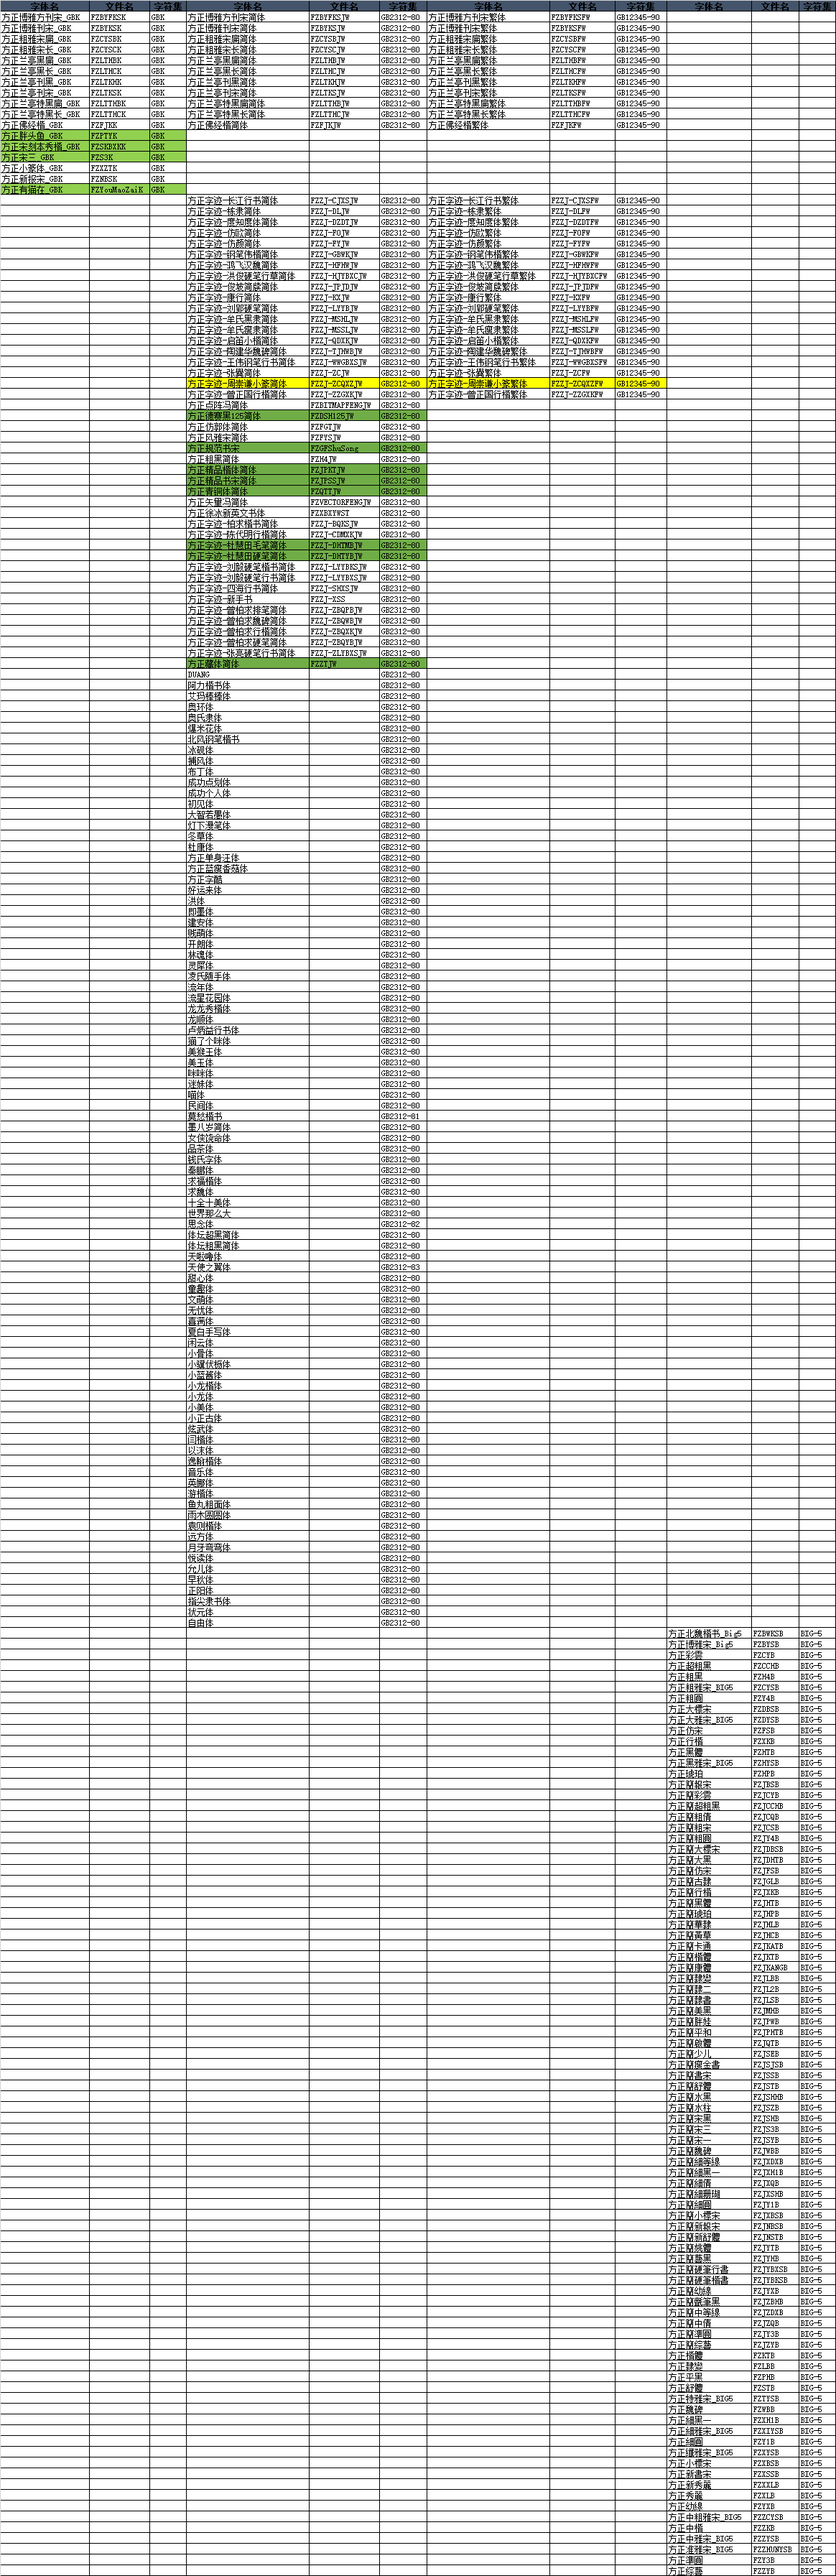
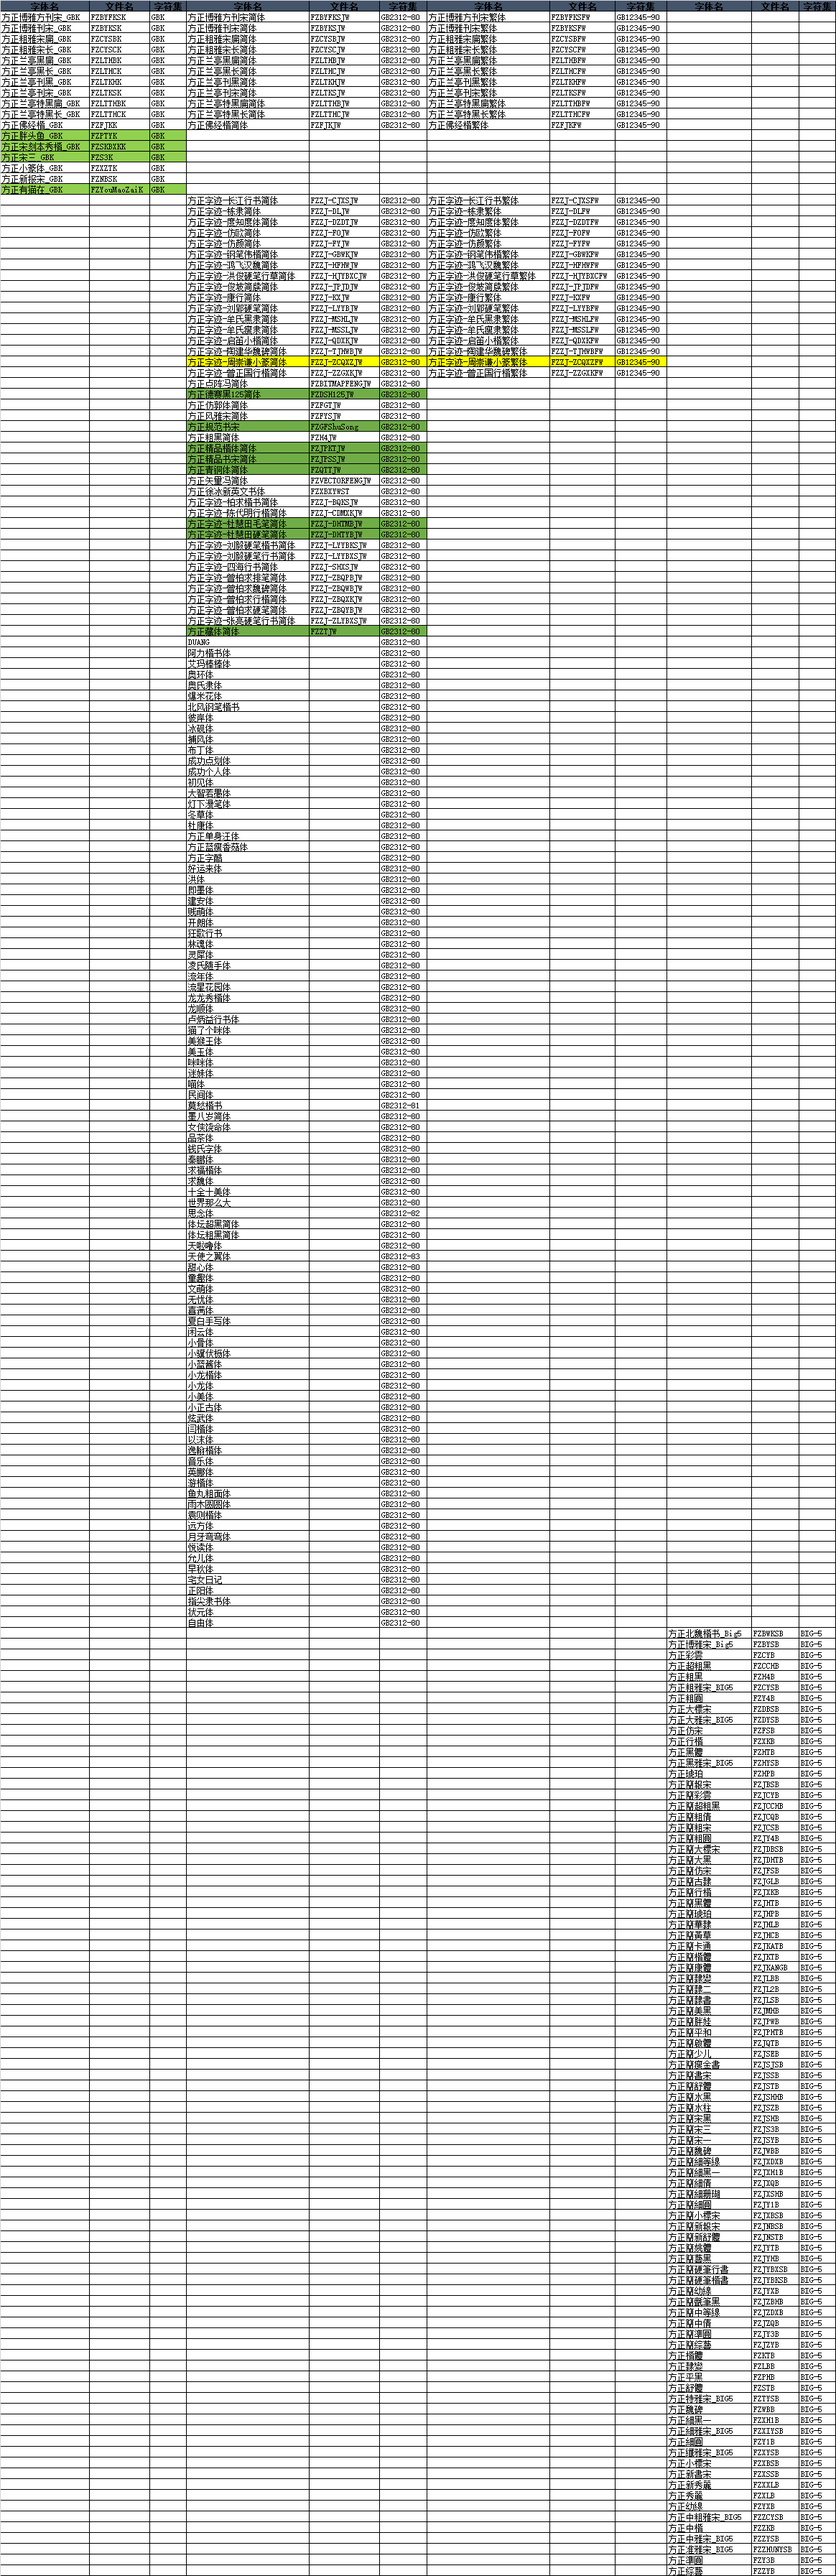
字体上架:方正字迹-新手书/方正字迹-王伟钢笔行书简体/方正字迹-王伟钢笔行书繁体/方正字迹-张爨简体/方正字迹-张爨繁体

Changed region(s): [[0.2165, 0.1249, 0.8041, 0.6247]]

diff --git a/README.md b/README.md
@@ -12,7 +12,7 @@
 
 方正字体样张:[http://shop.foundertype.com/index.php/Index/downSample.html](http://shop.foundertype.com/index.php/Index/downSample.html)
 
-目前官方商城在售字体540种：
+目前官方商城在售字体545种：
 
 | 字体名                      | 文件名             | 字符集     |
 |-----------------------------|--------------------|------------|
@@ -171,6 +171,7 @@
 | 方正字迹-吕建德魏碑繁体     | FZZJ-LJDWBFW       | GB12345-90 |
 | 方正字迹-佩安硬笔繁体       | FZZJ-PANYBFW       | GB12345-90 |
 | 方正字迹-童佬繁体           | FZZJ-TLFW          | GB12345-90 |
+| 方正字迹-王伟钢笔行书繁体   | FZZJ-WWGBXSFW      | GB12345-90 |
 | 方正字迹-潇洒隶书繁体       | FZZJ-XSLSFW        | GB12345-90 |
 | 方正字迹-邢体草书繁体       | FZZJ-XTCSFW        | GB12345-90 |
 | 方正字迹-邢体隶二繁体       | FZZJ-XTLEFW        | GB12345-90 |
@@ -178,6 +179,7 @@
 | 方正字迹-学贞简帛繁体       | FZZJ-XZJBFW        | GB12345-90 |
 | 方正字迹-彦辰清酒繁体       | FZZJ-YCQJFW        | GB12345-90 |
 | 方正字迹-元童楷隶繁体       | FZZJ-YTKLFW        | GB12345-90 |
+| 方正字迹-张爨繁体           | FZZJ-ZCFW          | GB12345-90 |
 | 方正字迹-张颢硬笔楷体繁体   | FZZJ-ZHYBKTFW      | GB12345-90 |
 | 方正字迹-张乃仁行楷繁体     | FZZJ-ZNRXKFW       | GB12345-90 |
 | 方正字迹-张士超魏碑繁体     | FZZJ-ZSCWBFW       | GB12345-90 |
@@ -427,7 +429,9 @@
 | 方正字迹-童佬简体           | FZZJ-TLJW          | GB2312-80  |
 | 方正字迹-童体毛笔简体       | FZZJ-TTMBJW        | GB2312-80  |
 | 方正字迹-童体硬笔简体       | FZZJ-TTYBJW        | GB2312-80  |
+| 方正字迹-王伟钢笔行书简体   | FZZJ-WWGBXSJW      | GB2312-80  |
 | 方正字迹-潇洒隶书简体       | FZZJ-XSLSJW        | GB2312-80  |
+| 方正字迹-新手书             | FZZJ-XSS           | GB2312-80  |
 | 方正字迹-邢体草书简体       | FZZJ-XTCSJW        | GB2312-80  |
 | 方正字迹-邢体隶二简体       | FZZJ-XTLEJW        | GB2312-80  |
 | 方正字迹-邢体隶一简体       | FZZJ-XTLYJW        | GB2312-80  |
@@ -435,6 +439,7 @@
 | 方正字迹-彦辰清酒简体       | FZZJ-YCQJJW        | GB2312-80  |
 | 方正字迹-叶根友特楷简体     | FZZJ-YGYTKJW       | GB2312-80  |
 | 方正字迹-元童楷隶简体       | FZZJ-YTKLJW        | GB2312-80  |
+| 方正字迹-张爨简体           | FZZJ-ZCJW          | GB2312-80  |
 | 方正字迹-张颢硬笔楷体简体   | FZZJ-ZHYBKTJW      | GB2312-80  |
 | 方正字迹-张乃仁行楷简体     | FZZJ-ZNRXKJW       | GB2312-80  |
 | 方正字迹-张士超魏碑简体     | FZZJ-ZSCWBJW       | GB2312-80  |
